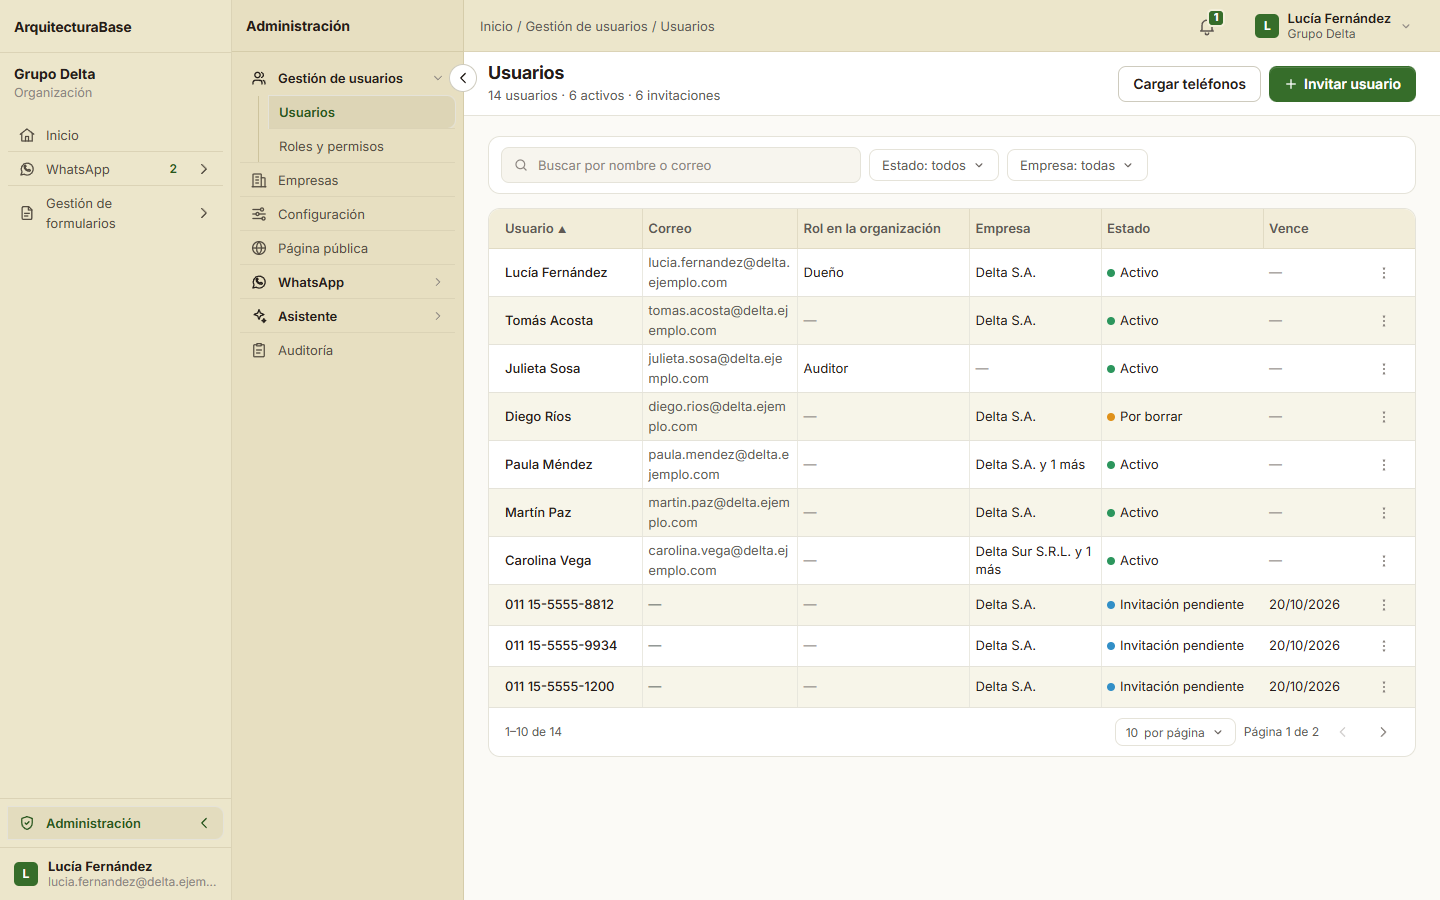
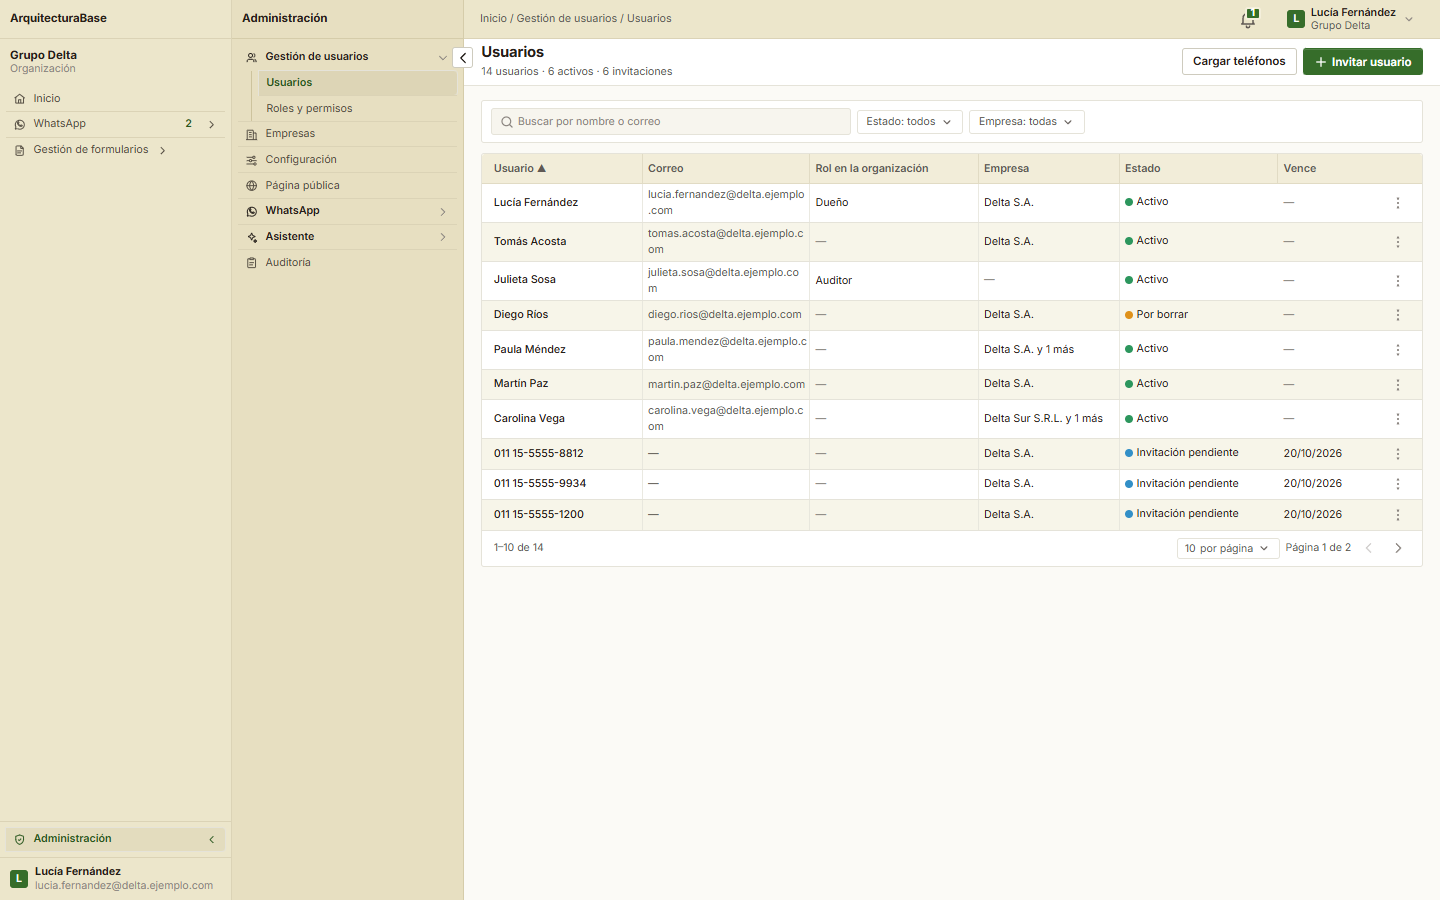
docs(lienzo): versión 167 publicada, la escala de ArquitecturaBase con los íconos en su tamaño (180)
La 166 publicó la escala en los 410 tableros vivos y la 167, los íconos
de los botones en su tamaño y los avisos de «Publicar» sin el color de
avatar. El README dice qué cambia, cómo se corre la pasada sobre una
lista (`--tableros`) y las medidas de «Compacto»; tema.md suma que el
ícono de un botón conserva su tamaño. Las capturas «después» de la
tanda «a» pasan a la escala.

diff --git a/docs/design/lienzo/README.md b/docs/design/lienzo/README.md
@@ -1,6 +1,6 @@
 # Lienzo del sistema visual
 
-Copia de la **versión 165** (2026-11-07) del lienzo «Sistema visual · Multitenant», que vive en claude.ai como artefacto de tipo Design: <https://claude.ai/artifact/WzoVTM574QGka8nCU4iFEK> (privado, de la cuenta del dueño). Tiene 438 tableros `.dc.html`, `canvas.json` (páginas, posiciones y notas), el motor `support.js`, los recursos de `ds/` y los scripts que los generan, en `generadores/`.
+Copia de la **versión 167** (2026-11-07) del lienzo «Sistema visual · Multitenant», que vive en claude.ai como artefacto de tipo Design: <https://claude.ai/artifact/WzoVTM574QGka8nCU4iFEK> (privado, de la cuenta del dueño). Tiene 438 tableros `.dc.html`, `canvas.json` (páginas, posiciones y notas), el motor `support.js`, los recursos de `ds/` y los scripts que los generan, en `generadores/`.
 
 El 2026-10-10 el usuario aprobó corregir localmente, sobre v115, la confirmación y el aviso de revocación de clave propia en `Organizacion.dc.html`: revocar no cambia automáticamente la financiación ni los topes. El tablero móvil sólo contiene la fila y su hoja de acciones, sin esas promesas. Este ajuste de fuente no declara una publicación remota ni una versión nueva del lienzo. La versión 116 lo publica, junto con «Avanzado: datos técnicos» en el diálogo de agregar o editar un modelo del catálogo (`Plat-Asistente-Config` y `M-Plat-Asistente-Config`, D26). La versión 117 suma el segundo factor de los operadores (Etapa 9: bloqueo, recuperación, «Confirmá que sos vos» y «Restablecer el autenticador») y pone al día los tableros de WhatsApp de atención (Etapa 11) con las ADR 0043 a 0049, con `generadores/alineamiento_v117_1004.py`. La versión 118 completa «Avanzado: datos técnicos» del catálogo de modelos con los campos del contrato del back (`853b5aed`): capacidades, esfuerzos permitidos, caché de 5 minutos y de 1 hora, y contexto largo con su caché. La versión 119 saca del resumen de `Asistente-Uso-Org` la clave en uso y las consultas por persona por día, que pueden cambiar a mitad de mes y se ven en Configuración. La versión 120 pone un tope a «Para resolver»: cada tipo de pendiente en su grupo, con su total, hasta 10 filas y «Ver todos» hacia el listado filtrado (`generadores/para_resolver_v120_1004.py`). La versión 121 pasa «Decisiones por pantalla» a tres columnas, para que quede debajo de los 8000 de alto que el lienzo admite. La versión 122 dibuja la Etapa 12, Formularios por WhatsApp: la página «Organización · Formularios» con 10 tableros de compu y 5 de teléfono (listado, nuevo, ficha con Preguntas, Inglés y Publicación, pregunta, prefijo, publicar, y mandar y recibir un formulario en un chat de Internos), y suma «Formularios» al menú de la organización, sus 5 permisos en Rol y el módulo en la ficha de una organización (`generadores/formularios_1004.py` y `generadores/formularios_ajustes_1004.py`). La versión 123 publica la regla única de secciones, pestañas y filtros en todo el lienzo y la Etapa 13 en curso, tal como las dejó Diseño (`f2f8e5bb`), y deja los tableros de la Etapa 11 sin contradicciones con las decisiones D1 a D9 del plan y con los estados que faltaban (`generadores/etapa11_1004.py`):
 - números con el contador siempre, sin medio de pago, el tope pasado, desconectar y «A quién atiende»;
@@ -192,12 +192,20 @@ La versión 156, del 3/11, redibuja la 22 con `generadores/formularios_22_biblio
 
 La versión 157, del 3/11, dibuja la 23 con `generadores/formularios_23_asistente_1004.py` y `generadores/formularios_23_chats_1004.py`: la pantalla «Asistente» de WhatsApp, como el editor de un formulario (elegido por el usuario), con Perfil, Conocimiento, Casos, Límites y Atención, un solo Guardar y «Probar» al costado; los casos en el chat de Clientes, con «Por qué respondió esto», «Necesita una persona», la ráfaga y el borrador; las preguntas sin respuesta; «Cuándo lo ofrece», la pestaña «Sugerencias» y «Armar desde un texto» en el formulario; el catálogo «Por aprobar»; lo que deja de pasar al dar de baja; de dónde vino una respuesta, y los máximos de Plataforma. Los chats, los audios, las sugerencias y el conocimiento siguen al front real de ArquitecturaBase.
 
+La versión 166, del 7/11, pasa el lienzo a la escala de ArquitecturaBase (decisión 180), a la espera del OK, con la misma `generadores/traspaso10_piezas_1004.py`. La 167, el mismo día, deja los íconos de los botones en su tamaño (con la escala, el relleno que el navegador le pone a un botón los aplastaba) y saca el color de avatar de los avisos de «Publicar»:
+- en los tableros de la compu, la letra × 0,82 (sin bajar de 10,5 px); los altos y el interlineado de 18 a 72 px × 0,74, y el ancho de lo cuadrado; los rellenos, márgenes y separaciones de 4 px o más × 0,72, y las esquinas de 3 px como mucho, también en pastillas y avatares. Las medidas que salen están en `docs/architecture/tema.md` («Forma») y en `Criterio-Marco` y `Criterio-Tablas`;
+- cada px que cambia guarda el de antes al lado (`29.6px/*40px*/`): otra corrida, o una escala distinta, parte siempre del original;
+- los teléfonos (los tableros de menos de 768 de ancho y los que se dibujan adentro de una pantalla) conservan sus medidas táctiles, y las tablas de un catálogo con columnas fijas, sus posiciones;
+- `Criterio-Decisiones` suma la 176 a la 180 a la sección «Traspaso 10 · 07/11».
+
+En los 37 tableros que otras sesiones estaban rehaciendo ese día (la E22, la E23 y los del núcleo), la 167 publica lo de la 166 con esos dos arreglos; lo nuevo de cada uno llega con su tanda.
+
 La versión 165, del 7/11, es la tanda «a» del traspaso 10 (§4.3 de su [evaluación](../../../../ArquitecturaBaseMutitenant/docs/plans/2026-11-07-traspaso-10-evaluacion.md)), a la espera del OK: las reglas visuales de toda la app, en las piezas compartidas de los 410 tableros vivos, con `generadores/traspaso10_piezas_1004.py`, que corre al final de todo:
 - que no parezca plantilla (173): la marca es el nombre, sin cuadrado ni degradé; la banda, sin ícono; el avatar, un cuadrado chico con la inicial; el activo del menú, una barra de 2 px; los filtros y las etiquetas, con el radio de un control, y los contadores, como texto; el principal, sólido, y sin sombras salvo en menús, desplegables y tooltips;
 - la línea entre columnas (137) en las tablas que no la tenían; los filtros sin cantidades ni el total en la barra, y «Filtros» en lugar de «Más filtros» (143 y 144); la primera carga de un listado con su encabezado y el aro en el alto de ocho filas (160), y el texto largo entero, que baja de renglón (174);
 - los ocho «Criterio», con `generadores/reglas_7_11_1004.py` (la 160 a la 164 y la 173 a la 175) y la sección «Traspaso 10 · 07/11» de `criterio_decisiones.py`, que marca lo que esas decisiones reemplazan y pasa a seis columnas.
 
-Lo propio de cada etapa (cada planilla con su «Filtros», las tablas de un catálogo, los textos de cada pantalla) llega con las tandas b a e. Las capturas de antes y después están en `../capturas/plan/traspaso-10-tanda-a/`.
+Lo propio de cada etapa (cada planilla con su «Filtros», las tablas de un catálogo, los textos de cada pantalla) llega con las tandas b a e. Las capturas de antes y después (el después, con la escala de la 167) están en `../capturas/plan/traspaso-10-tanda-a/`.
 
 La versión 164, aprobada por el usuario el 4/11, pasa todo el lienzo a la paleta «Pradera», la que eligió el usuario ese día y ya tiene la app (front `93e5efd6` y `docs/architecture/tema.md`), con `generadores/paleta_pradera_1004.py`:
 - la marca pasa del verde petróleo al verde pasto, y el marco y los neutros claros, del arena al paja: cada valor de los 438 tableros va al nuevo según su papel, con el de la app cuando lo hay;
@@ -222,7 +230,7 @@ La versión 159, del 3/11, suma a `Criterio-Tablas`, `Criterio-Menus` y `Criteri
 
 La versión 158, del 3/11, dibuja la 24 con `generadores/formularios_24_asistentes_1004.py`: la lista de asistentes, el asistente de cada equipo en «Editar equipo» y, en el chat, quién contesta y el menú de equipos al empezar. En ArquitecturaBase no existe: todo sale de piezas de este lienzo.
 
-La cola de los generadores de Formularios corre así, siempre con `indices_1004.py` antes, y dos corridas seguidas tienen que dar lo mismo: `formularios_e12_sin_idioma_1004`, `formularios_e12b_ciclo_de_vida_1004`, `formularios_15_respuestas_1004`, `formularios_lista_y_ficha_1004`, `formularios_12_catalogos_1004`, `formularios_13_campos_1004`, `formularios_14_formularios_1004`, `formularios_16_personas_1004`, `formularios_18_archivos_1004`, `formularios_19_logica_1004`, `formularios_20_carga_1004`, `formularios_21_reglas_1004`, `formularios_21_respuestas_1004`, `formularios_22_biblioteca_1004`, `formularios_23_asistente_1004`, `formularios_24_asistentes_1004`, `bloque0_org_1004`, `bloque0_plat_1004`, `bloque0_wa_1004`, `reglas_25_10_1004`, `formularios_etapas_1004`, `campana_1004`, `bloque0_personal_1004`, `otro_acceso_1004`, `reglas_2_11_1004`, `reglas_3_11_1004`, `reglas_7_11_1004` y `criterio_decisiones`. Al final de todo, después de cualquier generador, corre `paleta_pradera_1004.py`, que lleva lo que salga con la paleta vieja a la «Pradera», y después `traspaso10_piezas_1004.py`, que pone en los tableros vivos las piezas del traspaso 10: si un generador rehace tableros, se vuelve a correr.
+La cola de los generadores de Formularios corre así, siempre con `indices_1004.py` antes, y dos corridas seguidas tienen que dar lo mismo: `formularios_e12_sin_idioma_1004`, `formularios_e12b_ciclo_de_vida_1004`, `formularios_15_respuestas_1004`, `formularios_lista_y_ficha_1004`, `formularios_12_catalogos_1004`, `formularios_13_campos_1004`, `formularios_14_formularios_1004`, `formularios_16_personas_1004`, `formularios_18_archivos_1004`, `formularios_19_logica_1004`, `formularios_20_carga_1004`, `formularios_21_reglas_1004`, `formularios_21_respuestas_1004`, `formularios_22_biblioteca_1004`, `formularios_23_asistente_1004`, `formularios_24_asistentes_1004`, `bloque0_org_1004`, `bloque0_plat_1004`, `bloque0_wa_1004`, `reglas_25_10_1004`, `formularios_etapas_1004`, `campana_1004`, `bloque0_personal_1004`, `otro_acceso_1004`, `reglas_2_11_1004`, `reglas_3_11_1004`, `reglas_7_11_1004` y `criterio_decisiones`. Al final de todo, después de cualquier generador, corre `paleta_pradera_1004.py`, que lleva lo que salga con la paleta vieja a la «Pradera», y después `traspaso10_piezas_1004.py`, que pone en los tableros vivos las piezas del traspaso 10: si un generador rehace tableros, se vuelve a correr, con `--tableros A,B` para pasar solo por esos.
 
 Los generadores de Formularios leen sus tableros base de commits fijos (`f2f8e5bb`, `d5d5edc5` y, para lo que el bloque 0 reescribe en el lugar, `b83403a5`) para no seguir cambios posteriores de otros generadores.
 
@@ -269,7 +277,7 @@ Serví esta carpeta con un servidor estático, por ejemplo con `python -m http.s
 
 Lo que manda son los tableros «Criterio · …». Estas son las decisiones que más se repiten:
 
-- **Compacto.** Letra de 13. Botones de 36, y de 32 los chicos; solo el ingreso y el registro usan 44. Campos de 36.
+- **Compacto, con la escala de ArquitecturaBase** (180, desde la versión 166). Letra de 10,7, nunca menos de 10,5. Botones de 27, y de 24 los chicos; el ingreso y el registro usan 33. Campos de 27 y filas de 30; esquinas de 3 como mucho. El teléfono conserva 44 × 44.
 - **Sin plantilla** (173, desde la versión 165): la marca es el nombre, sin cuadrado; el avatar, un cuadrado chico; el activo del menú, una barra de 2 px; el principal, sólido; sin pastillas ni sombras, salvo en menús, desplegables y tooltips. El texto largo se ve entero (174) y lo que carga no salta (160).
 - **Encabezados con color arena:** tablas, cajas y diálogos (`oklch(0.945 0.027 95)`, el paja de la paleta «Pradera»). Filas alternadas, sin mayúsculas.
 - **Nada de texto explicativo en la pantalla** (regla del 2026-10-02).
@@ -386,7 +394,7 @@ Son scripts de Python 3, sin dependencias. Escriben los tableros y `canvas.json`
 | `etapa11_1004.py` | Etapa 11 (v123): los estados que faltaban y las contradicciones del plan en los tableros de WhatsApp, Usuarios, Cuenta-Plat y Mensajes, y los datos de ejemplo coherentes (ningún número de empleado y de cliente a la vez; las difusiones, solo a quienes aceptan). Corre al final, después de `formularios_catalogos_1004.py`. Cada tablero lleva la marca `data-e11` y no se vuelve a tocar; para rehacer uno, se restaura desde git y se corre de nuevo. |
 | `paleta_pradera_1004.py` | La paleta «Pradera» (2026-11-04) en los 438 tableros: lleva cada color de la paleta vieja al nuevo según su papel, pone «pendiente» en celeste y el color del sistema primero en el diseño del PDF. Corre al final de todo y se puede volver a correr. |
 | `reglas_7_11_1004.py` | Las reglas del traspaso 10 en los «Criterio» (2026-11-07): la primera carga y el texto entero en Tablas, la página que espera y que no parezca plantilla en Marco, un ajuste y ninguna elección en silencio en Formularios, decidir a propósito en Diálogos, el estado una vez en Avisos, el activo con barra en Menús y el principal sólido en Botones, con el alto nuevo de cada uno. Corre después de `reglas_3_11_1004.py` y antes de `criterio_decisiones.py`; rehace sus secciones si se vuelve a correr. |
-| `traspaso10_piezas_1004.py` | Las piezas del traspaso 10 en los 410 tableros vivos (2026-11-07): un bloque `data-t10="piezas"` que deja la marca sin cuadrado, la banda sin ícono, el avatar cuadrado, el activo con una barra, el principal sólido y sin sombras salvo en menús; suma la línea entre columnas, saca las cantidades de los filtros y el total de la barra, dice «Filtros», dibuja la primera carga de un listado con el aro y deja el texto entero. Las sombras se calculan tablero por tablero. Corre al final de todo, después de `paleta_pradera_1004.py`, y se puede volver a correr. |
+| `traspaso10_piezas_1004.py` | Las piezas del traspaso 10 en los 410 tableros vivos (2026-11-07): un bloque `data-t10="piezas"` que deja la marca sin cuadrado, la banda sin ícono, el avatar cuadrado, el activo con una barra, el principal sólido y sin sombras salvo en menús; suma la línea entre columnas, saca las cantidades de los filtros y el total de la barra, dice «Filtros», dibuja la primera carga de un listado con el aro y deja el texto entero. En la compu aplica la escala de ArquitecturaBase (180), con sus factores en `ESCALA` y el px de antes guardado al lado; los teléfonos no se escalan. Las sombras se calculan tablero por tablero. Corre al final de todo, después de `paleta_pradera_1004.py`, y se puede volver a correr; con `--tableros A,B`, solo sobre esos. |
 
 Después de correr `perfil_tableros.py`, `whatsapp_tableros.py` u `org_formularios.py`, corré `conectar_paginas.py`: esos tres dibujan el menú sin enlaces. `conectar_paginas.py`, `org_formularios2.py`, `org_vuelta_1002.py`, `wa_vuelta_1003.py`, `wa_telefonos_1004.py`, `org_telefonos_1004.py`, `plat_personal_telefonos_1004.py`, `wa_ajustes_1004.py`, `menus_con_lineas.py` y `flechita_blanca.py` se pueden volver a correr sin cambiar lo que ya está; los de 1004 van al final, después de `wa_vuelta_1003.py`, `perfil_tableros.py` y `conectar_paginas.py`, porque rehacen los teléfonos en formato app. Los otros reescriben `canvas.json`, así que revisá el diff antes de publicar. Para rehacer un formulario, se copia el formato de `org_formularios.py` y nunca se maquilla con CSS encima.
 

diff --git a/docs/architecture/tema.md b/docs/architecture/tema.md
@@ -66,7 +66,7 @@ El estado es un **punto de 8 px y la palabra, sin fondo** («Criterio · Tablas 
   - **Letra:** 10,7 el cuerpo, las filas y los menús (unos 11); 11,5 un botón; 14,8 el título de la banda; nunca menos de 10,5.
   - **Altos:** botón normal 27, chico 24 y grande 33; campo 27 (33 en el ingreso); fila y encabezado de una tabla 30 (33 en la planilla); banda de la página 47; barra de arriba 38,5; opción del menú lateral 24.
   - **Rellenos:** 17 el cuerpo de una página; 12 y 14 una caja.
-  - **Esquinas** de 3 como mucho, también pastillas y avatares; un círculo (un punto de estado, un radio, el aro) sigue siendo un círculo. Sin sombras, salvo en menús, desplegables y tooltips (173). Los anchos no cambian, y lo cuadrado sigue cuadrado.
+  - **Esquinas** de 3 como mucho, también pastillas y avatares; un círculo (un punto de estado, un radio, el aro) sigue siendo un círculo. Sin sombras, salvo en menús, desplegables y tooltips (173). Los anchos no cambian, lo cuadrado sigue cuadrado y el ícono de un botón conserva su tamaño.
 
   Salen de las medidas nominales de este documento: la letra × 0,82, los altos de 18 a 72 × 0,74 y los rellenos y las separaciones × 0,72. El lienzo las dibuja tal cual desde la versión 166 (`traspaso10_piezas_1004.py`); el teléfono conserva sus medidas táctiles (44 × 44). **En la app entra con la base de la 12**, que decide cómo llegar a estas medidas: la raíz al 75 % ya da casi todas (36 × 0,75 = 27; 40 × 0,75 = 30), no la letra (13 × 0,75 = 9,75) ni las esquinas. No se aplican las dos escalas encima: la letra quedaría en 8.
 - **Sin sombras, salvo en menús, desplegables y tooltips** (173): la profundidad la dan el borde de 1 px y el escalón de luz entre el fondo y la superficie. Quedan `--sombra-menu` y la de un tooltip; salen las de las tarjetas, los botones, los diálogos, el aviso de abajo, la flecha del menú lateral, las hojas, la franja y el «+» del teléfono, la tarjeta de la página pública y la del directorio. Un anillo de foco o un borde dibujado con `box-shadow` (`0 0 0 1px`, `inset`) no es una sombra y queda.
